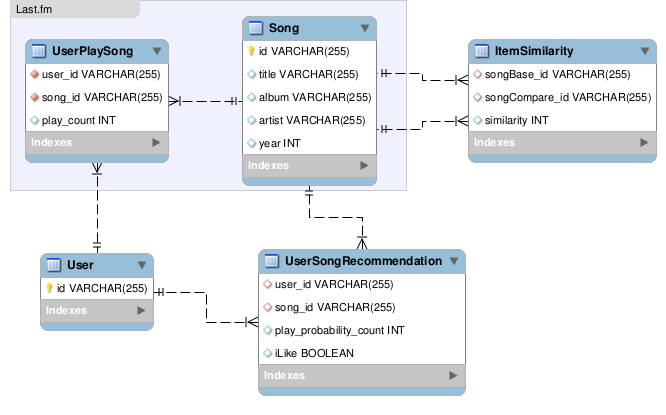
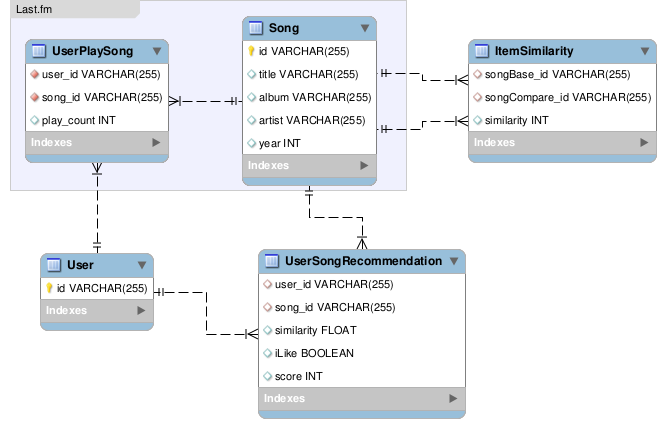
migração e documentação e script do banco

diff --git a/config/postgres/bigger/processBigEntry.py b/config/postgres/bigger/processBigEntry.py
@@ -1,6 +1,6 @@
 def getDistinctUsers():
     print ('*'*30)
-    print ('Processando a entrada do Play Entry para Distinct User Entry')
+    print ('Processando a entrada do Play Entry para Distinct User')
     print ('*'*30)
 
     distinctList = []
@@ -10,9 +10,31 @@ def getDistinctUsers():
     distinctList = set(distinctList)
     print ('Total de Usuarios Distintos: ', len(distinctList))
     print ('Salvando no Arquivo. Aguarde alguns minutos!')
-    userFile = open('config/seed/postgres/bigger/bigUserEntry.csv', 'w')
-    userFile.write('id\n')
+    toSaveFile = open('config/postgres/bigger/distinctUser.seed', 'w+')
+    toSaveFile.write('id\n')
     for user in distinctList:
-        userFile.write(user + '\n')
-    userFile.close()
+        toSaveFile.write(user + '\n')
+    toSaveFile.close()
+    print ('Usuarios distintos gerado e salvo. Finalizando o script!')
+
+def getDistinctSong():
+    print ('*'*30)
+    print ('Processando a entrada do Song Entry para Distinct Song')
+    print ('*'*30)
+    distinctList = []
+    status = 1
+    toSaveFile = open('config/postgres/bigger/distinctSong.seed', 'w+')
+    toSaveFile.write('id,title,album,artist,year\n')
+    for line in open('config/postgres/bigger/bigSongEntry.csv', 'r'):
+        lineSplit = line.split(',')
+        if (status % 10000 == 0):
+            print (" -> ",status)
+        if lineSplit[0] not in distinctList:
+            distinctList.append(lineSplit[0])
+            toSaveFile.write(line)
+        else:
+            print ('[Alerta] Entrada Duplicada : ', line)
+        status += 1
+    print ('Total de Usuarios Distintos: ', len(distinctList))
+    toSaveFile.close()
     print ('Usuarios distintos gerado e salvo. Finalizando o script!')

diff --git a/api/songs/migrations/0001_initial.py b/api/songs/migrations/0001_initial.py
@@ -1,0 +1,36 @@
+# -*- coding: utf-8 -*-
+# Generated by Django 1.11.5 on 2017-10-13 14:42
+from __future__ import unicode_literals
+
+from django.db import migrations, models
+import django.db.models.deletion
+
+
+class Migration(migrations.Migration):
+
+    initial = True
+
+    dependencies = [
+    ]
+
+    operations = [
+        migrations.CreateModel(
+            name='Song',
+            fields=[
+                ('id', models.CharField(db_index=True, default='c2f49393b02411e7b9ac708bcdd0cf1e', max_length=255, primary_key=True, serialize=False, unique=True)),
+                ('title', models.CharField(max_length=255)),
+                ('album', models.CharField(max_length=255)),
+                ('artist', models.CharField(max_length=255)),
+                ('year', models.IntegerField(default=0)),
+            ],
+        ),
+        migrations.CreateModel(
+            name='SongSimilarity',
+            fields=[
+                ('id', models.AutoField(auto_created=True, primary_key=True, serialize=False, verbose_name='ID')),
+                ('songCompare', models.CharField(max_length=255)),
+                ('similarity', models.FloatField(default=0)),
+                ('songBase', models.ForeignKey(on_delete=django.db.models.deletion.CASCADE, to='songs.Song')),
+            ],
+        ),
+    ]

diff --git a/api/userSongRecommendation/migrations/0001_initial.py b/api/userSongRecommendation/migrations/0001_initial.py
@@ -1,0 +1,30 @@
+# -*- coding: utf-8 -*-
+# Generated by Django 1.11.5 on 2017-10-13 14:42
+from __future__ import unicode_literals
+
+from django.db import migrations, models
+import django.db.models.deletion
+
+
+class Migration(migrations.Migration):
+
+    initial = True
+
+    dependencies = [
+        ('users', '0001_initial'),
+        ('songs', '0001_initial'),
+    ]
+
+    operations = [
+        migrations.CreateModel(
+            name='UserSongRecommendation',
+            fields=[
+                ('id', models.AutoField(auto_created=True, primary_key=True, serialize=False, verbose_name='ID')),
+                ('similarity', models.IntegerField(default=0)),
+                ('iLike', models.BooleanField(default=False)),
+                ('score', models.IntegerField(blank=True, null=True)),
+                ('song', models.ForeignKey(on_delete=django.db.models.deletion.CASCADE, to='songs.Song')),
+                ('user', models.ForeignKey(on_delete=django.db.models.deletion.CASCADE, to='users.User')),
+            ],
+        ),
+    ]

diff --git a/api/userPlaySong/migrations/0001_initial.py b/api/userPlaySong/migrations/0001_initial.py
@@ -1,0 +1,31 @@
+# -*- coding: utf-8 -*-
+# Generated by Django 1.11.5 on 2017-10-13 14:42
+from __future__ import unicode_literals
+
+from django.db import migrations, models
+import django.db.models.deletion
+
+
+class Migration(migrations.Migration):
+
+    initial = True
+
+    dependencies = [
+        ('users', '0001_initial'),
+        ('songs', '0001_initial'),
+    ]
+
+    operations = [
+        migrations.CreateModel(
+            name='UserPlaySong',
+            fields=[
+                ('play_count', models.IntegerField(default=0)),
+                ('song', models.ForeignKey(on_delete=django.db.models.deletion.CASCADE, to='songs.Song')),
+                ('user', models.ForeignKey(on_delete=django.db.models.deletion.CASCADE, to='users.User')),
+            ],
+        ),
+        migrations.AlterUniqueTogether(
+            name='userplaysong',
+            unique_together=set([('user', 'song')]),
+        ),
+    ]

diff --git a/api/users/migrations/0001_initial.py b/api/users/migrations/0001_initial.py
@@ -1,0 +1,22 @@
+# -*- coding: utf-8 -*-
+# Generated by Django 1.11.5 on 2017-10-13 14:42
+from __future__ import unicode_literals
+
+from django.db import migrations, models
+
+
+class Migration(migrations.Migration):
+
+    initial = True
+
+    dependencies = [
+    ]
+
+    operations = [
+        migrations.CreateModel(
+            name='User',
+            fields=[
+                ('id', models.CharField(db_index=True, default='c2f49392b02411e7b9ac708bcdd0cf1e', max_length=255, primary_key=True, serialize=False, unique=True)),
+            ],
+        ),
+    ]

diff --git a/api/songs/migrations/0002_auto_20171013_1445.py b/api/songs/migrations/0002_auto_20171013_1445.py
@@ -1,0 +1,20 @@
+# -*- coding: utf-8 -*-
+# Generated by Django 1.11.5 on 2017-10-13 14:45
+from __future__ import unicode_literals
+
+from django.db import migrations, models
+
+
+class Migration(migrations.Migration):
+
+    dependencies = [
+        ('songs', '0001_initial'),
+    ]
+
+    operations = [
+        migrations.AlterField(
+            model_name='song',
+            name='id',
+            field=models.CharField(db_index=True, default='2d829c55b02511e7b9ac708bcdd0cf1e', max_length=255, primary_key=True, serialize=False, unique=True),
+        ),
+    ]

diff --git a/api/users/migrations/0002_auto_20171013_1445.py b/api/users/migrations/0002_auto_20171013_1445.py
@@ -1,0 +1,20 @@
+# -*- coding: utf-8 -*-
+# Generated by Django 1.11.5 on 2017-10-13 14:45
+from __future__ import unicode_literals
+
+from django.db import migrations, models
+
+
+class Migration(migrations.Migration):
+
+    dependencies = [
+        ('users', '0001_initial'),
+    ]
+
+    operations = [
+        migrations.AlterField(
+            model_name='user',
+            name='id',
+            field=models.CharField(db_index=True, default='2d829c54b02511e7b9ac708bcdd0cf1e', max_length=255, primary_key=True, serialize=False, unique=True),
+        ),
+    ]

diff --git a/ouvidoMusical/settings.py b/ouvidoMusical/settings.py
@@ -85,8 +85,8 @@ WSGI_APPLICATION = 'ouvidoMusical.wsgi.application'
 DATABASES = {
     'default': {
         'ENGINE': 'django.db.backends.postgresql_psycopg2',
-        'NAME': 'ouvidomusicalsmaller',
-        #'NAME': 'ouvidomusicalbigger',
+        #'NAME': 'ouvidomusicalsmaller',
+        'NAME': 'ouvidomusicalbigger',
         'USER': 'ouvidomusicalapi',
         'PASSWORD': 'lovelovelove',
         'HOST': 'localhost',

diff --git a/README.md b/README.md
@@ -34,7 +34,7 @@ Caso não exista a pasta:
 1. `virtualenv ouvidoMusicalenv`  
 2. `source ouvidoMusicalenv/bin/activate`  
 Regardless of which version of Python you are using, when the virtual environment is activated, you should use the pip command (not pip3).  
-3. `pip install django psycopg2`  
+3. `pip3 install django psycopg2`  
 4. `django-admin.py startproject ouvidoMusicalenv .`  
 
 ### Iniciando Servidor
